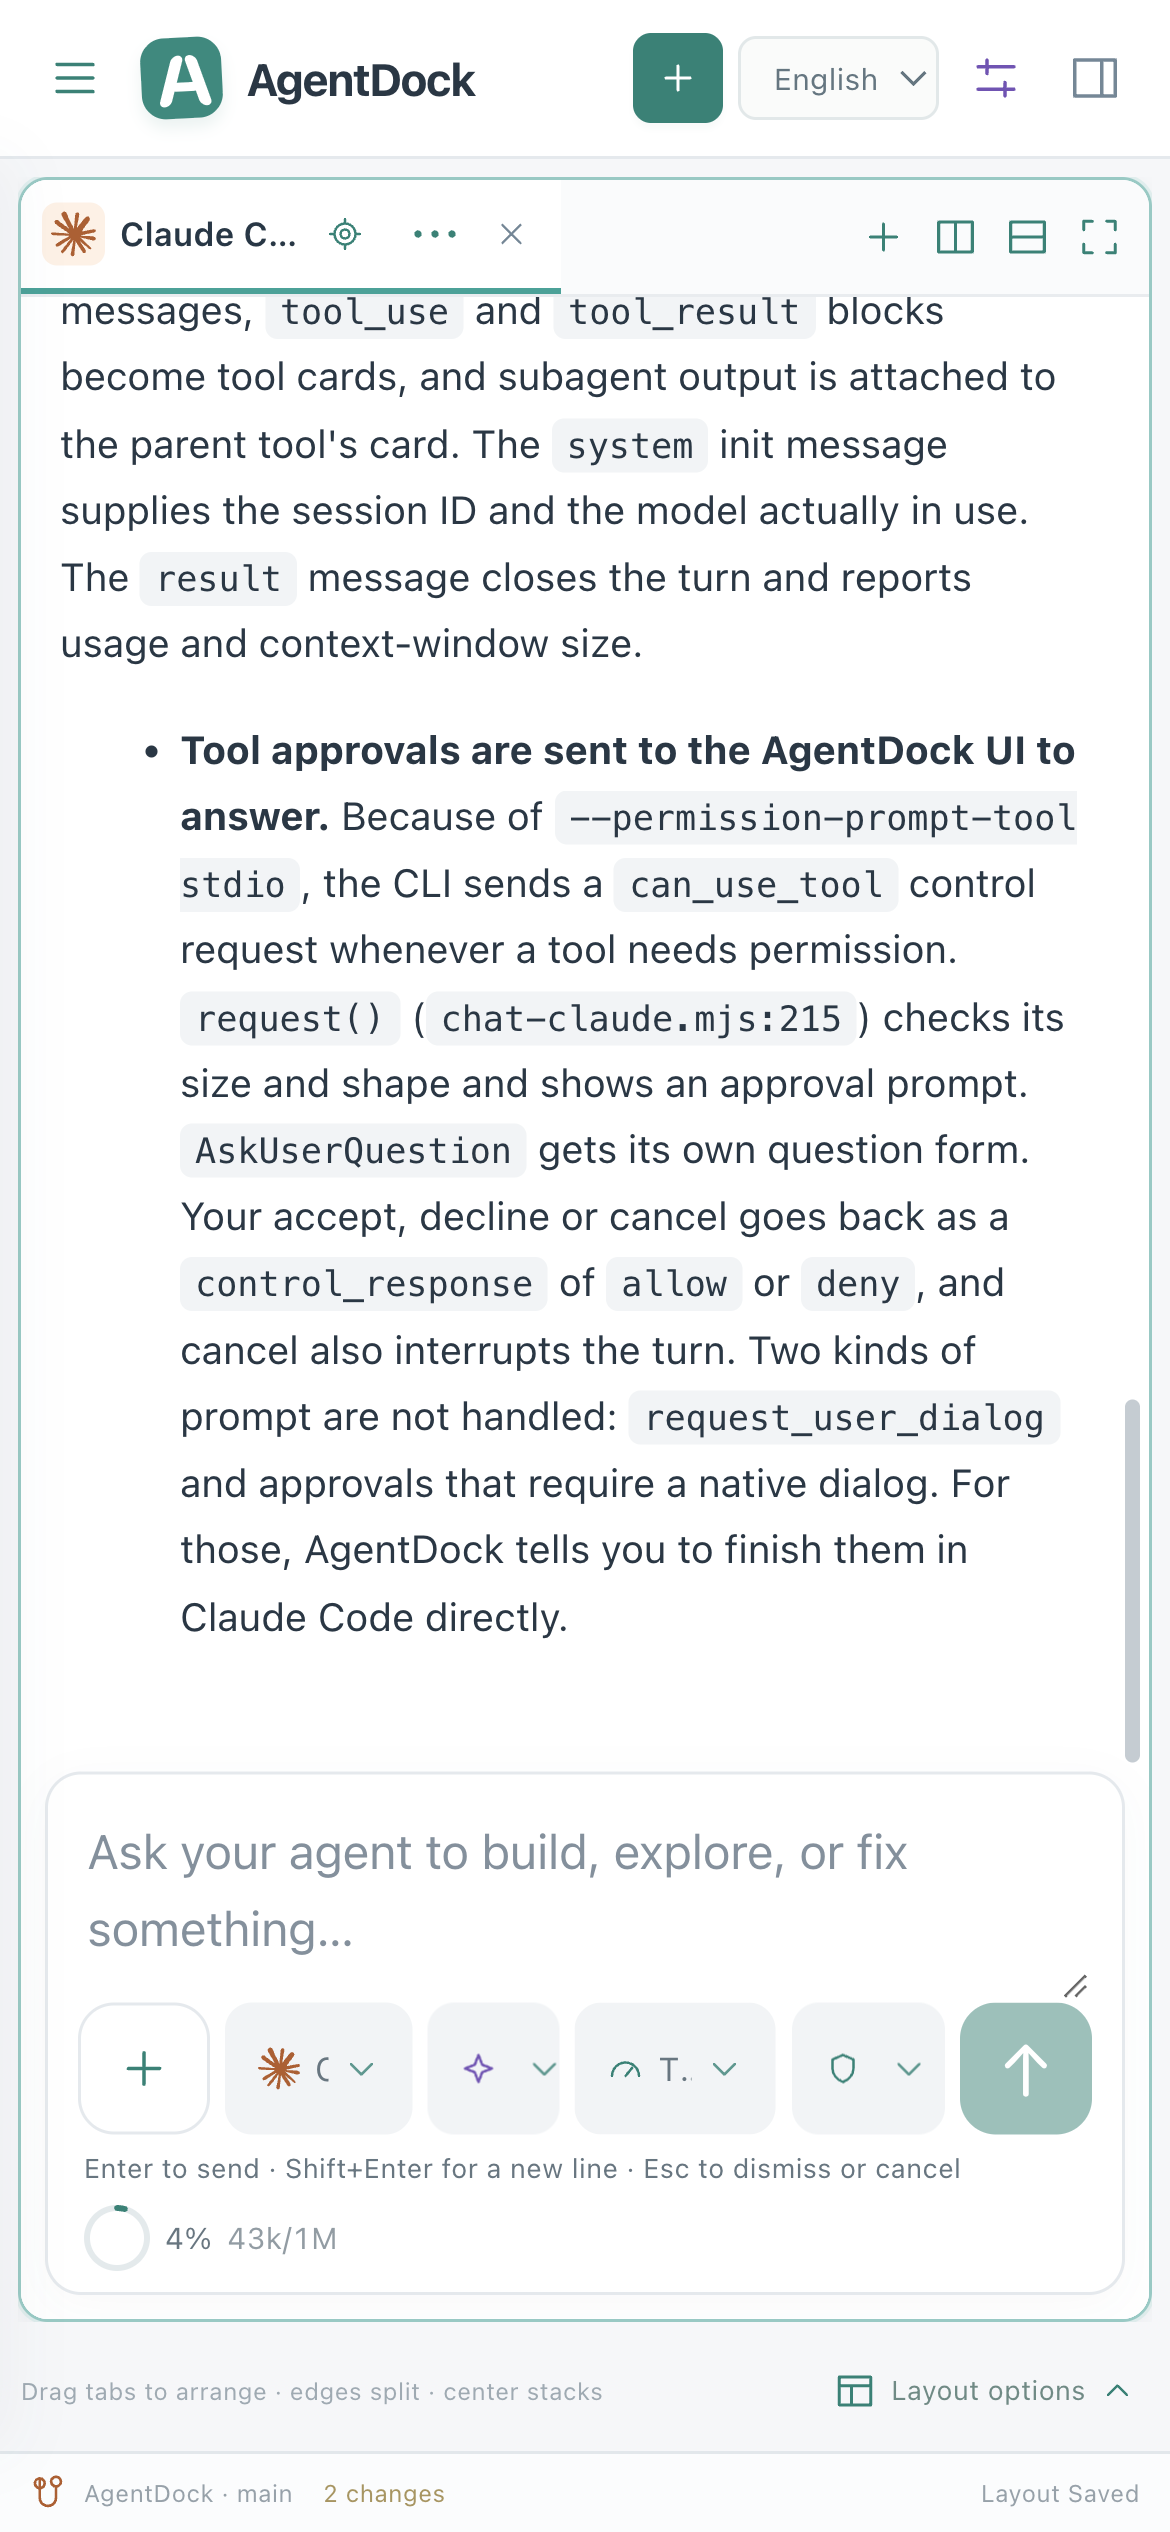
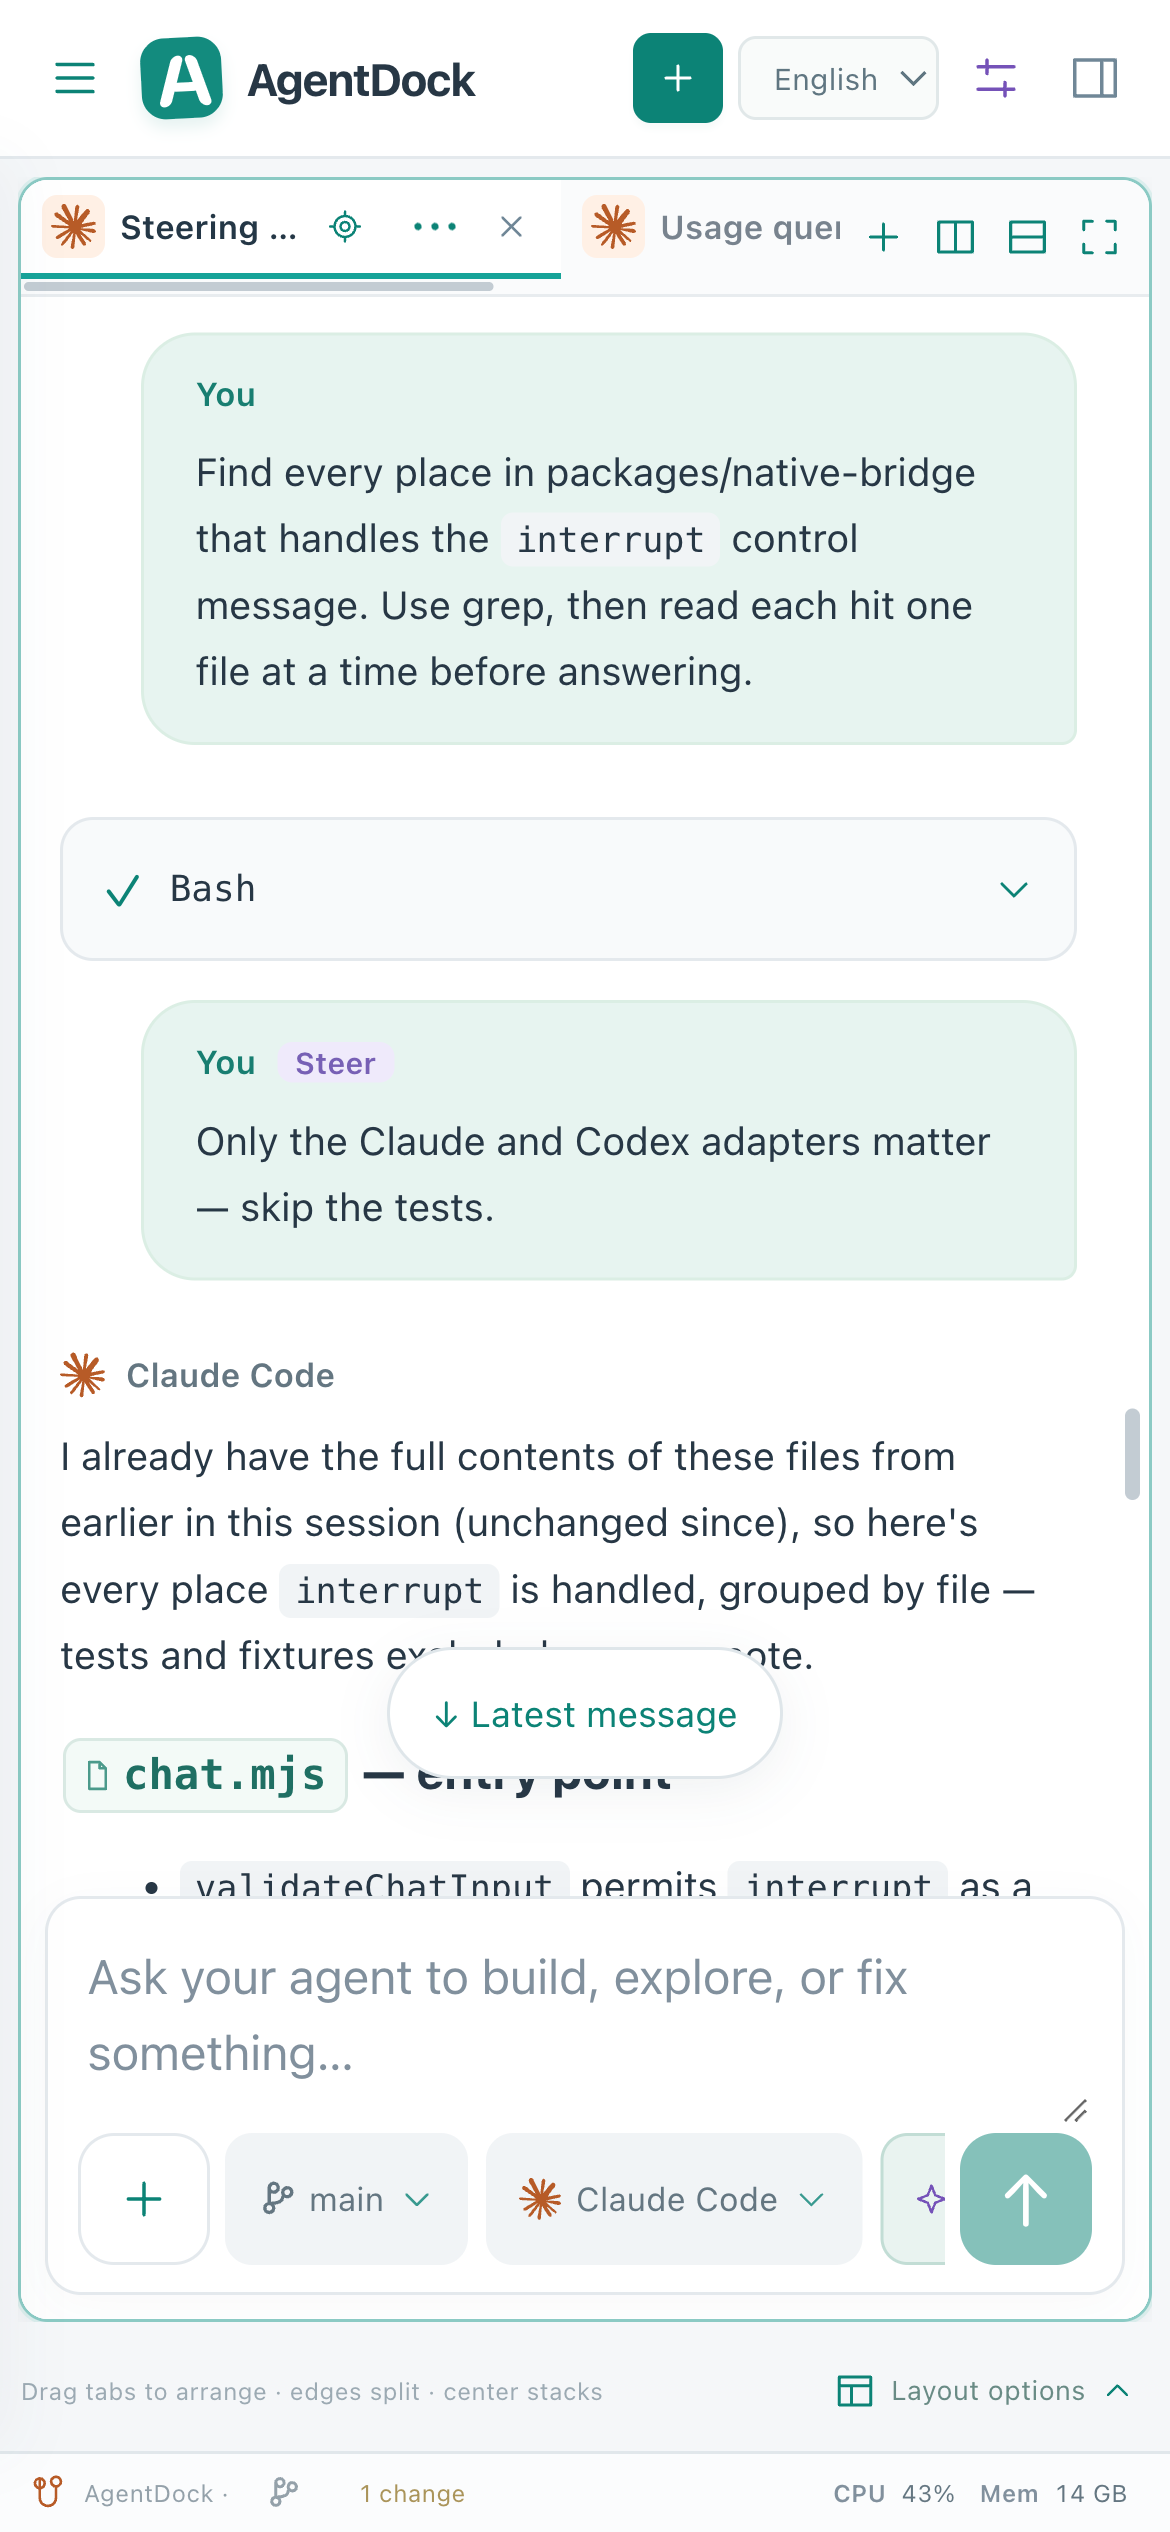
README: fresh screenshots; isolated endpoints as a highlight
Every screenshot retaken on 0.1.23 in English and Chinese: the canvas, the
model menu, steering, isolated endpoints and handoff, quota, and a phone's
conversation and terminal. Accounts and endpoints get their own highlight.
The outdated chat and files screenshots are removed.

diff --git a/README.md b/README.md
@@ -52,12 +52,18 @@ Every session is the official `claude` or `codex` you already have installed, dr
 The same workspace works from a phone to an ultrawide monitor, with nothing cut down on the small end. Splits fold into tabs when a window or pane gets too small and open back up when there is room, without touching the saved layout. Controls adapt to the pane they sit in, so a narrow split on a big screen gets the compact layout too. On a phone the sidebar becomes a drawer, the layout makes room for the keyboard, menus open as bottom sheets, touch targets are finger-sized and a long press stands in for right-click. Check on a long task, answer an approval or steer the agent from the couch.
 
 <p align="center">
-  <img src="docs/assets/screenshot-mobile.png" alt="AgentDock on a phone: the conversation and composer." width="36%">
+  <img src="docs/assets/screenshot-mobile.png" alt="AgentDock on a phone: the split folded into tabs, a steered message, and the composer." width="36%">
+  &nbsp;
+  <img src="docs/assets/screenshot-terminal-mobile.png" alt="A terminal session on a phone, with the touch key bar." width="36%">
 </p>
 
 ### Correct the agent while it works
 
 A message typed while the agent is busy doesn't have to wait. **Enter steers**: the agent reads it at its next step, without stopping, and the transcript marks it. **⌥/Alt+Enter queues** it as the next turn instead, and **Interrupt and send** stops the turn when you need to change course completely. If the client can't take a message mid-turn, it waits in the queue rather than being lost.
+
+<p align="center">
+  <img src="docs/assets/screenshot-steer.png" alt="A steered message marked Steer in the middle of a running turn, with the send menu open: Steer, After this turn, Interrupt and send." width="70%">
+</p>
 
 ### One branch per session
 
@@ -71,13 +77,21 @@ Split, tab and dock sessions, files, Git diffs and terminals the way you like. S
 
 File paths the agent mentions (`src/app.ts:42`, `README.md`) are clickable chips that open the file at that line. Files in another workspace open there, and anything else opens in a read-only preview. Consecutive tool calls fold into one card, images open in a lightbox, and tables and code render properly.
 
-### Hand off between agents
+### Accounts and endpoints, kept apart
 
-Stuck with one agent? Continue the same work in the other: switch from Claude Code to Codex (or back) and the conversation so far is carried into the new session's message box, ready to send.
+Every session chooses where it runs: an official account signed in through AgentDock, the sign-in already on the host, a custom endpoint such as a team gateway or proxy, or a clean, isolated client home that shares nothing with the host. Each is isolated from the others, so switching one session never touches another, and API keys are stored only as references resolved at launch. Switch from the message box at any time. The same menu hands the conversation to the other agent: go from Claude Code to Codex (or back) and what was said so far is carried into the new session's message box.
+
+<p align="center">
+  <img src="docs/assets/screenshot-endpoints.png" alt="The endpoint menu: an isolated configuration, a team gateway, the host sign-in, and continuing with Codex." width="70%">
+</p>
 
 ### Your quota at a glance
 
-Sign in to official Claude Code or Codex accounts, or import the ones already on the host, and see how much of the 5-hour and weekly windows is **left**, with the time each one resets. Several accounts can live side by side, and each new session picks one.
+See how much of each official account's 5-hour and weekly windows is **left**, with when each resets, for as many accounts as you use. Usage is read from the official endpoint on request, never polled in the background.
+
+<p align="center">
+  <img src="docs/assets/screenshot-accounts.png" alt="Official accounts: 84% of the 5-hour window and 48% of the weekly window left, with reset times." width="70%">
+</p>
 
 ### Set it once
 

diff --git a/README.zh-CN.md b/README.zh-CN.md
@@ -52,12 +52,18 @@ AgentDock 本身不包含 Agent：Codex 通过官方 `app-server` 驱动，Claud
 从手机到带鱼屏，都是同一个完整的工作区，小屏上功能不缩水。窗口或窗格太小时，分屏会自动折叠成标签页，空间够了再展开，保存的布局不受影响。控件按所在窗格的宽度自适应，所以大屏上的窄分屏也会切换到紧凑布局。在手机上，侧边栏变成抽屉，界面会给键盘让出位置，菜单从底部弹出，按钮大小适合手指点按，长按代替右键。躺在沙发上也能看长任务的进度、批准权限，或者引导 Agent 换个方向。
 
 <p align="center">
-  <img src="docs/assets/screenshot-mobile.zh-CN.png" alt="手机上的 AgentDock：对话与输入框。" width="36%">
+  <img src="docs/assets/screenshot-mobile.zh-CN.png" alt="手机上的 AgentDock：分屏折叠成标签页、被引导的消息和输入框。" width="36%">
+  &nbsp;
+  <img src="docs/assets/screenshot-terminal-mobile.zh-CN.png" alt="手机上的终端会话，带触屏按键栏。" width="36%">
 </p>
 
 ### 边做边纠正
 
 Agent 工作时写下的消息不必干等。**Enter 引导**：不中断，Agent 下一步就会读到，聊天记录里会标出来。**⌥/Alt+Enter 排队**：等这一轮结束再作为新的一轮发出。需要彻底改方向时，用**中断并发送**。客户端当下接不了的消息会进入队列，不会丢。
+
+<p align="center">
+  <img src="docs/assets/screenshot-steer.zh-CN.png" alt="进行中的一轮里标着“引导”的消息，以及打开的发送菜单：引导、等这轮结束、中断并发送。" width="70%">
+</p>
 
 ### 每个会话一个分支
 
@@ -71,13 +77,21 @@ Agent 工作时写下的消息不必干等。**Enter 引导**：不中断，Agen
 
 Agent 提到的文件路径（如 `src/app.ts:42`、`README.md`）会变成可点击的小卡片，点开直接跳到对应行。在别的工作区里的文件就在那个工作区打开，不在任何工作区的文件以只读方式预览。连续的工具调用折叠成一张卡片，图片可以点开放大，表格和代码都正常渲染。
 
-### Agent 之间接力
+### 账号与端点，彼此隔离
 
-一个 Agent 卡住了？换另一个接着干：从 Claude Code 切到 Codex（或反过来），之前的对话会带进新会话的输入框，发出去即可继续。
+每个会话自己选在哪里跑：在 AgentDock 里登录的官方账号、本机已有的登录、团队网关或代理这类自定义端点，或者一个与本机完全不共享的全新独立客户端环境。它们彼此隔离，切换一个会话不会影响其他会话；API Key 只以引用的形式保存，启动时才解析。随时可以在输入框下方切换。同一个菜单还能把对话交给另一个 Agent：从 Claude Code 切到 Codex（或反过来），之前说过的内容会带进新会话的输入框。
+
+<p align="center">
+  <img src="docs/assets/screenshot-endpoints.zh-CN.png" alt="端点菜单：独立配置、团队网关、本机登录，以及换成 Codex 继续。" width="70%">
+</p>
 
 ### 额度一眼看清
 
-登录官方 Claude Code 或 Codex 账号，或者引入本机已有的配置，就能看到 5 小时窗口和本周窗口**还剩**多少，以及各自什么时候重置。多个账号可以并存，新建会话时选用哪个。
+每个官方账号的 5 小时窗口和本周窗口**还剩**多少、什么时候重置，一目了然，账号再多也一样。用量只在你查询时向官方接口读取，不会在后台轮询。
+
+<p align="center">
+  <img src="docs/assets/screenshot-accounts.zh-CN.png" alt="官方账号：5 小时窗口剩余 84%，本周窗口剩余 48%，并显示重置时间。" width="70%">
+</p>
 
 ### 设置一次就好
 
